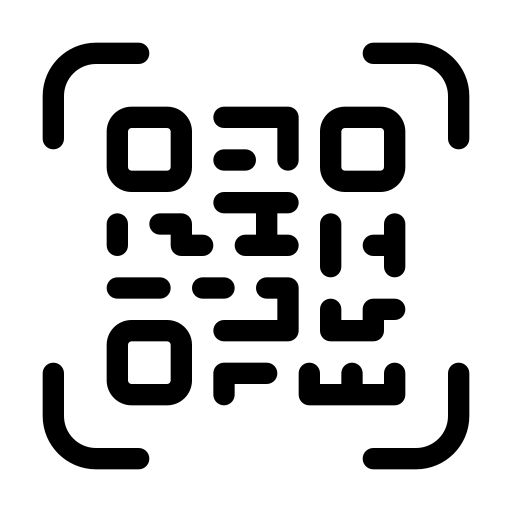
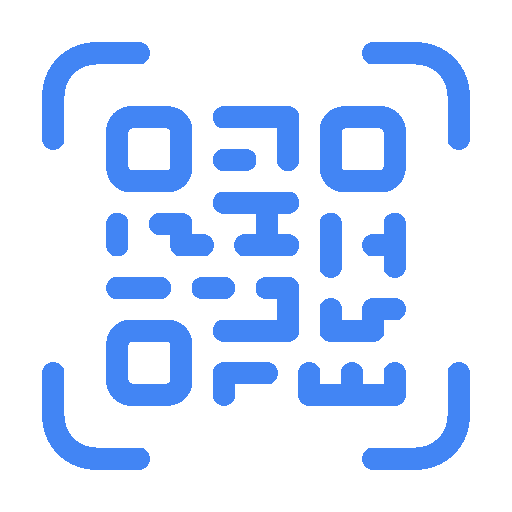
Working on UI

diff --git a/src/main/java/filetransfer/controllers/MainController.java b/src/main/java/filetransfer/controllers/MainController.java
@@ -6,10 +6,13 @@ import javafx.event.EventHandler;
 import javafx.fxml.FXML;
 import javafx.scene.control.Button;
 import javafx.scene.control.Label;
+import javafx.scene.effect.DropShadow;
 import javafx.scene.input.DragEvent;
 import javafx.scene.input.Dragboard;
 import javafx.scene.input.TransferMode;
+import javafx.scene.layout.Pane;
 import javafx.scene.layout.VBox;
+import javafx.scene.paint.Color;
 
 
 public class MainController {
@@ -28,7 +31,10 @@ public class MainController {
     @FXML
     private Button disconnectButton;
     @FXML
+    private Pane toolbar;
+    @FXML
     private VBox mainWindow;
+
 
     private MainUIHandler uiHandler;
 
@@ -37,12 +43,12 @@ public class MainController {
             this.uiHandler = uiHandler;
             disconnectButton.setVisible(false);
             setupDragAndDrop();
+            addToolbarShadow();
         }
     }
 
-    public void setupDragAndDrop() {
+    private void setupDragAndDrop() {
         mainWindow.setOnDragOver(new EventHandler<DragEvent>() {
-
             @Override
             public void handle(DragEvent event) {
                 if (event.getGestureSource() != mainWindow && event.getDragboard().hasFiles()) {
@@ -63,6 +69,15 @@ public class MainController {
                 event.consume();
             }
         });
+    }
+
+    private void addToolbarShadow(){
+        DropShadow dropShadow = new DropShadow();
+        dropShadow.setRadius(5);
+        dropShadow.setOffsetX(0);
+        dropShadow.setOffsetY(1.5);
+        dropShadow.setColor(Color.color(0.8, 0.8, 0.8));
+        toolbar.setEffect(dropShadow);
     }
 
 

diff --git a/src/main/java/filetransfer/windows/QRWindow.java b/src/main/java/filetransfer/windows/QRWindow.java
@@ -17,6 +17,7 @@ import javafx.scene.text.Font;
 import javafx.scene.text.FontWeight;
 import javafx.stage.Stage;
 
+import java.awt.*;
 import java.awt.image.BufferedImage;
 
 public class QRWindow {
@@ -36,10 +37,10 @@ public class QRWindow {
         Pane root = new Pane();
         Scene scene = new Scene(root, 350, 350);
         root.setBackground(new Background(new BackgroundFill(javafx.scene.paint.Color.rgb(255, 255, 255), CornerRadii.EMPTY, Insets.EMPTY)));
-
+        Color gBlue = new Color(66,133,244);
         Label deviceName = new Label();
         deviceName.setAlignment(Pos.CENTER);
-        deviceName.setFont(Font.font("Verdana", FontWeight.BOLD, 13));
+        deviceName.setFont(Font.font("System", FontWeight.BOLD, 14));
         deviceName.setText(currentDeviceName);
         deviceName.setMinWidth(350);
         deviceName.setLayoutY(10);
@@ -47,7 +48,7 @@ public class QRWindow {
 
         Label guideMessage = new Label();
         guideMessage.setAlignment(Pos.CENTER);
-        guideMessage.setFont(Font.font("Verdana", FontWeight.BOLD, 11));
+        guideMessage.setFont(Font.font("System", FontWeight.BOLD, 13));
         guideMessage.setText("Scan the QR Code using the Android application");
         guideMessage.setMinWidth(350);
         guideMessage.setLayoutY(330);

diff --git a/src/main/java/filetransfer/utils/QRUtils.java b/src/main/java/filetransfer/utils/QRUtils.java
@@ -18,7 +18,8 @@ public class QRUtils {
             Graphics2D graphics2D = (Graphics2D) bufferedImage.getGraphics();
             graphics2D.setColor(Color.WHITE);
             graphics2D.fillRect(0, 0, width, height);
-            graphics2D.setColor(Color.BLACK);
+            Color gBlue = new Color(66,133,244);
+            graphics2D.setColor(gBlue);
 
             for (int i = 0; i < width; i++) {
                 for (int j = 0; j < height; j++) {
